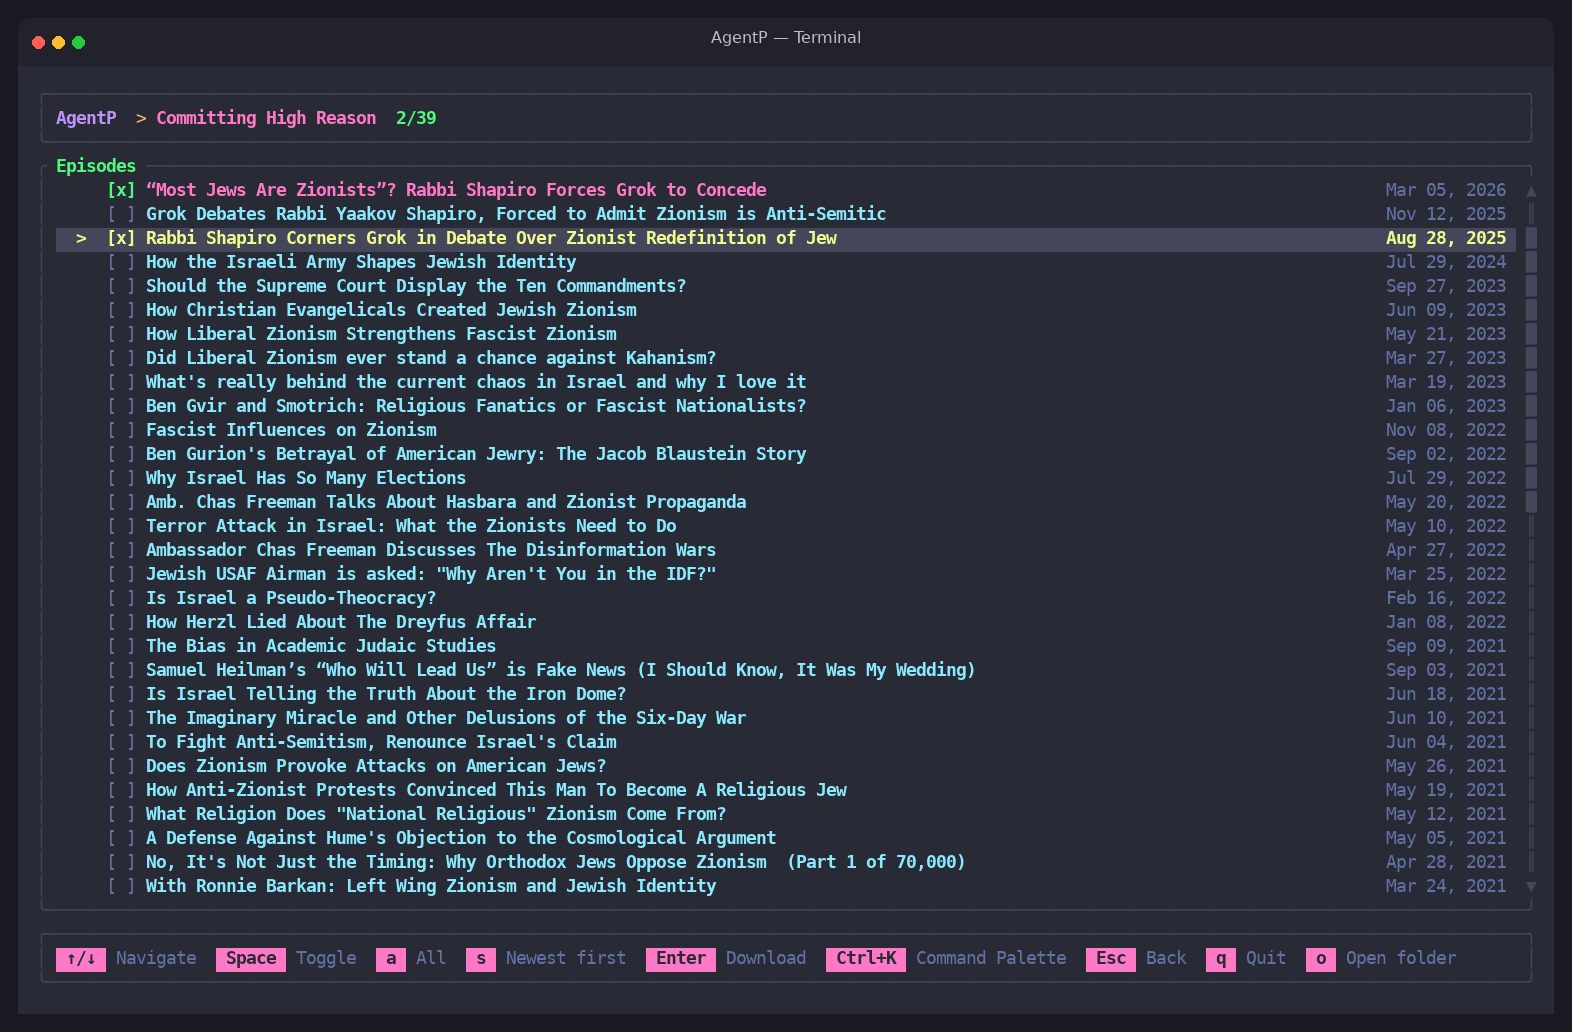
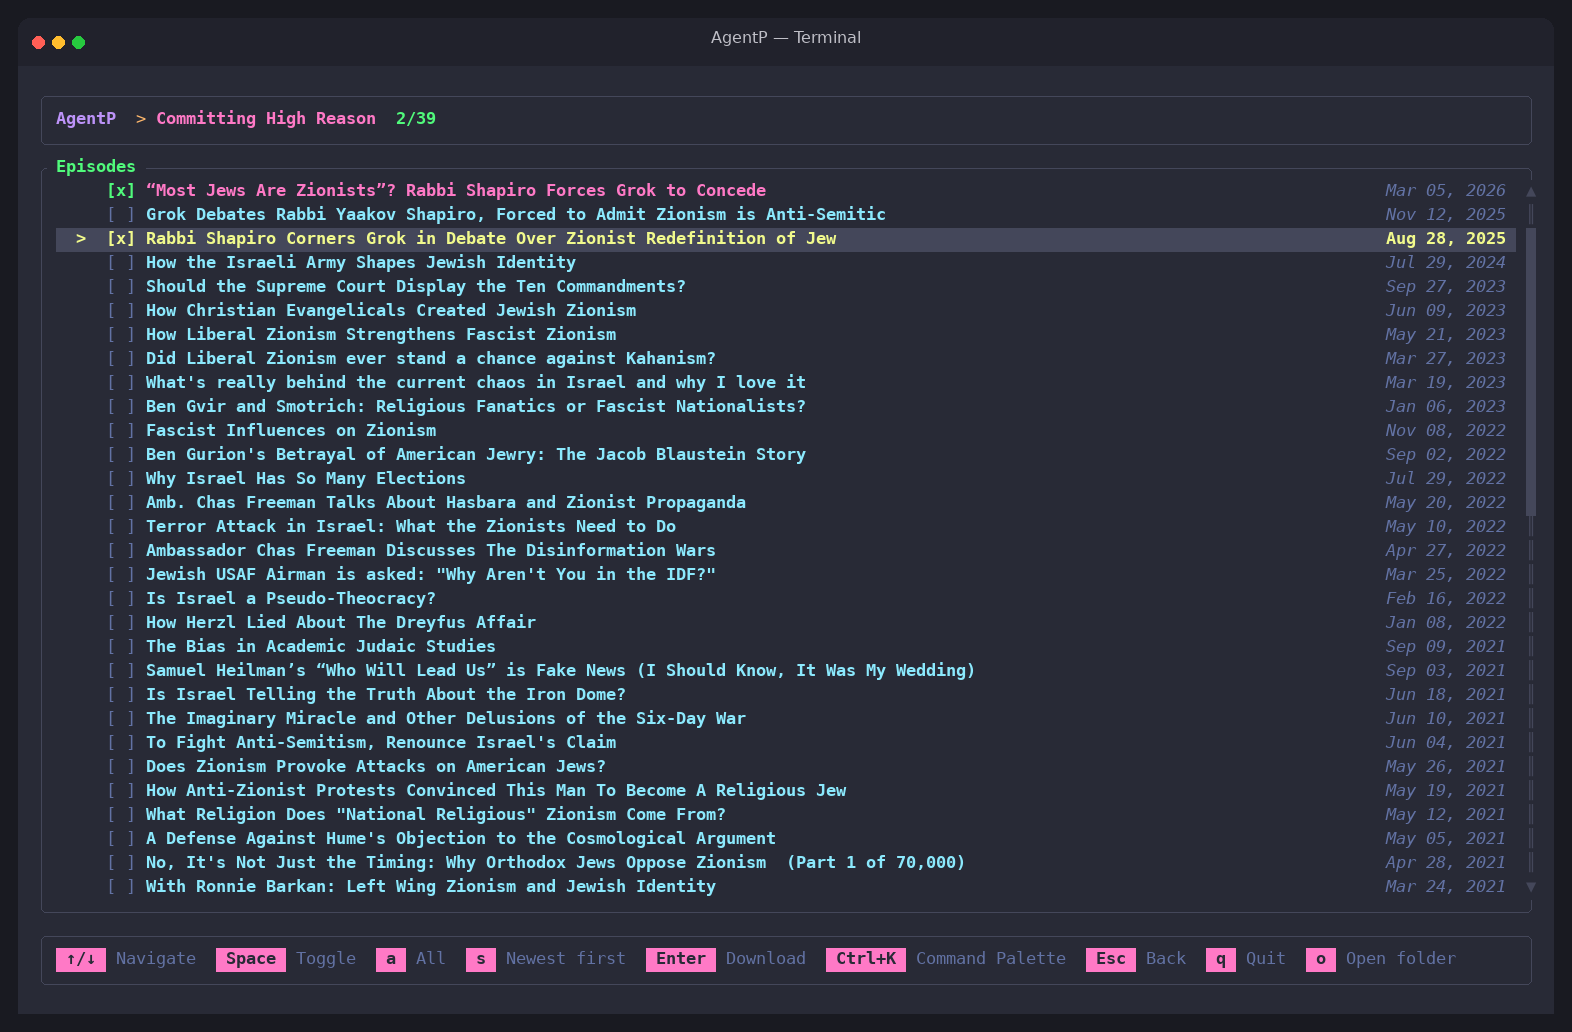
docs: refresh screenshots and GIFs for current TUI
Amp-Thread-ID: https://ampcode.com/threads/T-01a0b0bd-471d-772a-87d5-e6bad6164146

diff --git a/docs/capture_media.py b/docs/capture_media.py
@@ -1,6 +1,7 @@
 """Capture README media from the real TUI on Linux.
 
 Run cargo build --locked, then run this with Python, Pillow and pyte installed.
+Requires DejaVu Sans and Sans Mono fonts, including Bold and Oblique faces.
 Uses live RSS feeds and a disposable HOME; never downloads audio or edits user config.
 """
 
@@ -27,8 +28,9 @@ COLS, ROWS = 150, 38
 CELL_W, CELL_H, PAD, OUTER, TITLE_H = 10, 24, 18, 18, 48
 BG, PAGE_BG, TITLE_BG = "#282a36", "#191a21", "#21222c"
 FONTS = Path("/usr/share/fonts/truetype/dejavu")
-FONT = ImageFont.truetype(str(FONTS / "DejaVuSansMono.ttf"), 18)
-BOLD = ImageFont.truetype(str(FONTS / "DejaVuSansMono-Bold.ttf"), 18)
+FONT = ImageFont.truetype(str(FONTS / "DejaVuSansMono.ttf"), 17)
+BOLD = ImageFont.truetype(str(FONTS / "DejaVuSansMono-Bold.ttf"), 17)
+ITALIC = ImageFont.truetype(str(FONTS / "DejaVuSansMono-Oblique.ttf"), 17)
 TITLE_FONT = ImageFont.truetype(str(FONTS / "DejaVuSans.ttf"), 16)
 FEATURED = ["The AI Daily Brief", "Merge Conflict", "Committing High Reason", "The Pragmatic Engineer"]
 ANSI = dict(zip(
@@ -44,6 +46,46 @@ def color(value, default):
     if value == "default":
         return default
     return ANSI.get(value, value if value.startswith("#") else "#" + value)
+
+
+def draw_glyph(draw, x, y, ch, fg):
+    right, bottom = x + CELL_W - 1, y + CELL_H - 1
+    cx, cy = x + CELL_W // 2, y + CELL_H // 2
+    if ch.data in "─│┌┐└┘├┤┬┴┼╭╮╰╯":
+        directions = {
+            "─": "lr", "│": "ud", "┌": "rd", "┐": "ld", "└": "ru", "┘": "lu",
+            "├": "rud", "┤": "lud", "┬": "lrd", "┴": "lru", "┼": "lrud",
+            "╭": "rd", "╮": "ld", "╰": "ru", "╯": "lu",
+        }[ch.data]
+        if ch.data in "╭╮╰╯":
+            if "d" in directions:
+                draw.line((cx, cy + 5, cx, bottom), fill=fg)
+            else:
+                draw.line((cx, y, cx, cy - 5), fill=fg)
+            arcs = {
+                "╭": ((cx, cy, cx + 10, cy + 10), 180, 270),
+                "╮": ((cx - 10, cy, cx, cy + 10), 270, 360),
+                "╰": ((cx, cy - 10, cx + 10, cy), 90, 180),
+                "╯": ((cx - 10, cy - 10, cx, cy), 0, 90),
+            }
+            box, start, end = arcs[ch.data]
+            draw.arc(box, start, end, fill=fg)
+        else:
+            for direction, endpoint in (("l", (x, cy)), ("r", (right, cy)),
+                                        ("u", (cx, y)), ("d", (cx, bottom))):
+                if direction in directions:
+                    draw.line((cx, cy, *endpoint), fill=fg)
+    elif ch.data in "▁▂▃▄▅▆▇█":
+        height = ("▁▂▃▄▅▆▇█".index(ch.data) + 1) * CELL_H // 8
+        draw.rectangle((x, y + CELL_H - height, right, bottom), fill=fg)
+    elif ch.data == "▀":
+        draw.rectangle((x, y, right, y + CELL_H // 2 - 1), fill=fg)
+    elif ch.data in "╱╲":
+        ends = (x, bottom, right, y) if ch.data == "╱" else (x, y, right, bottom)
+        draw.line(ends, fill=fg)
+    else:
+        font = BOLD if ch.bold else ITALIC if ch.italics else FONT
+        draw.text((x, y), ch.data, font=font, fill=fg)
 
 
 class Terminal:
@@ -135,7 +177,7 @@ class Terminal:
                 if ch.data.strip():
                     glyphs.append((px, py, ch, fg))
         for px, py, ch, fg in glyphs:
-            draw.text((px, py - 1), ch.data, font=BOLD if ch.bold else FONT, fill=fg)
+            draw_glyph(draw, px, py, ch, fg)
         width, height = body_w + OUTER * 2, body_h + TITLE_H + OUTER * 2
         image = Image.new("RGB", (width, height), PAGE_BG)
         d = ImageDraw.Draw(image)
@@ -160,11 +202,17 @@ class Terminal:
         self.durations.append(duration)
         if screenshot:
             frame.save(ASSETS / screenshot)
+        for elapsed in range(100, duration, 100):
+            self.drain(0.1)
+            frame = self.render()
+            self.durations[-1] = 100
+            self.frames.append(frame)
+            self.durations.append(min(100, duration - elapsed))
 
     def gif(self, name):
         self.frames[0].save(ASSETS / name, save_all=True, append_images=self.frames[1:],
                             duration=self.durations, loop=0, optimize=True, disposal=1)
-        print(f"{name}: {len(self.frames)} verified states, {sum(self.durations) / 1000:.1f}s", flush=True)
+        print(f"{name}: {len(self.frames)} frames, all state checks passed, {sum(self.durations) / 1000:.1f}s", flush=True)
 
     def episodes(self, name):
         self.send(b"\r")
